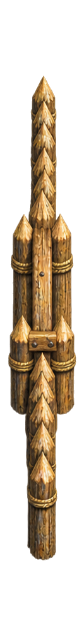
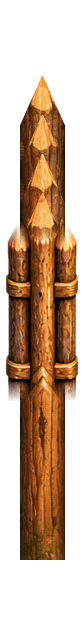
fix(art): activate original-palisade-based AI gate artwork v4

diff --git a/index.html b/index.html
@@ -408,11 +408,11 @@ Ihre Form wird ausschließlich im Bergwerkzeug eingestellt. Ihre Deckkraft folgt
 window.VedrasCloudsDisabled=new URLSearchParams(location.search).get('clouds')!=='1';</script>
 <script src="asset-image-pool.js?v=0.3.1&amp;step11=20261028"></script><script src="render-quality-policy.js?v=0.1.0&amp;terrain=quality-source-20261117"></script><script src="gpu-terrain.js?v=0.2.0&amp;uvHighp=20261122"></script><script src="strategic-view.js?v=0.1.0"></script><script src="static-terrain-cache.js?v=0.1.0"></script><script src="render-benchmark-profiler.js?v=0.1.0"></script>
 <script src="render-step15-trace.js?v=0.1.0"></script>
-<script src="sprite-atlas-runtime.js?v=0.3.0"></script><script src="worldgen-geography.js?v=2.1.2"></script><script src="geography-io.js?v=20261120-io-v1"></script><script src="catalog.js?v=0.18.0"></script><script src="terrain-source-rules.js?v=0.18.0"></script><script src="water-texture.js?v=20261119-forest-seamless-v2"></script><script src="autotile.js?v=20261119-ground-wrap-v1"></script><script src="chunks.js?v=0.37.1&amp;step16b=20261101-offscreen1"></script><script src="terrain-worker-client.js?v=20261119-ground-wrap-v1"></script><script src="nature_catalog.js?v=20261121-desert-trees-v1"></script><script src="flora-plan.js?v=0.17.0"></script><script src="terrain-plan.js?v=0.18.0"></script><script src="sprite-planner.js?v=0.16.0"></script><script src="existing-asset-rules.js?v=20261121-desert-trees-v1"></script><script src="forest.js?v=20261122-canopy-variation-v1"></script><script src="forest-ground.js?v=20261120-organic-v1&amp;softSnow=20261122"></script><script src="nature-balance.js?v=0.36.1"></script><script src="polish.js?v=0.21.0"></script><script src="relief.js?v=0.35.0"></script><script src="shoreline.js?v=0.30.1&amp;artfix=20261027"></script><script src="river.js?v=0.30.0"></script><script src="river-banks.js?v=0.2.0"></script><script src="mountain.js?v=0.11.0"></script><script src="roads.js?v=0.31.0"></script><script src="walls.js?v=20261124-palisade-gates-ai-v3"></script><script src="bridges.js?v=0.28.0"></script><script src="shadow-tone.js?v=20261122-shadow-union-v1"></script><script src="shadow-system.js?v=20261122-gray-all-v1"></script><script src="shadow-shapes.js?v=20261122-gray-all-v1"></script><script src="sprite-shadow-editor.js?v=20261122-shadow-union-v1"></script><script src="shadow-painter-ui.js?v=0.1.0"></script><script src="object-layout-cache.js?v=0.2.0"></script><script src="static-object-layer.js?v=0.2.0"></script><script src="gpu-sprite-layer.js?v=0.1.0"></script><script src="frame-preparation-cache.js?v=0.1.0"></script><script src="adaptive-lod.js?v=0.1.1&amp;step10=20261027"></script><script src="realtime-map-renderer.js?v=0.1.1"></script><script src="cloud-artwork.js?v=0.22.4&amp;step12=20261028"></script><script src="fog-atmosphere.js?v=0.22.4"></script><script src="quick-terrain-preview.js?v=20261101-1"></script>
+<script src="sprite-atlas-runtime.js?v=0.3.0"></script><script src="worldgen-geography.js?v=2.1.2"></script><script src="geography-io.js?v=20261120-io-v1"></script><script src="catalog.js?v=0.18.0"></script><script src="terrain-source-rules.js?v=0.18.0"></script><script src="water-texture.js?v=20261119-forest-seamless-v2"></script><script src="autotile.js?v=20261119-ground-wrap-v1"></script><script src="chunks.js?v=0.37.1&amp;step16b=20261101-offscreen1"></script><script src="terrain-worker-client.js?v=20261119-ground-wrap-v1"></script><script src="nature_catalog.js?v=20261121-desert-trees-v1"></script><script src="flora-plan.js?v=0.17.0"></script><script src="terrain-plan.js?v=0.18.0"></script><script src="sprite-planner.js?v=0.16.0"></script><script src="existing-asset-rules.js?v=20261121-desert-trees-v1"></script><script src="forest.js?v=20261122-canopy-variation-v1"></script><script src="forest-ground.js?v=20261120-organic-v1&amp;softSnow=20261122"></script><script src="nature-balance.js?v=0.36.1"></script><script src="polish.js?v=0.21.0"></script><script src="relief.js?v=0.35.0"></script><script src="shoreline.js?v=0.30.1&amp;artfix=20261027"></script><script src="river.js?v=0.30.0"></script><script src="river-banks.js?v=0.2.0"></script><script src="mountain.js?v=0.11.0"></script><script src="roads.js?v=0.31.0"></script><script src="walls.js?v=20261124-palisade-gates-ai-v4"></script><script src="bridges.js?v=0.28.0"></script><script src="shadow-tone.js?v=20261122-shadow-union-v1"></script><script src="shadow-system.js?v=20261122-gray-all-v1"></script><script src="shadow-shapes.js?v=20261122-gray-all-v1"></script><script src="sprite-shadow-editor.js?v=20261122-shadow-union-v1"></script><script src="shadow-painter-ui.js?v=0.1.0"></script><script src="object-layout-cache.js?v=0.2.0"></script><script src="static-object-layer.js?v=0.2.0"></script><script src="gpu-sprite-layer.js?v=0.1.0"></script><script src="frame-preparation-cache.js?v=0.1.0"></script><script src="adaptive-lod.js?v=0.1.1&amp;step10=20261027"></script><script src="realtime-map-renderer.js?v=0.1.1"></script><script src="cloud-artwork.js?v=0.22.4&amp;step12=20261028"></script><script src="fog-atmosphere.js?v=0.22.4"></script><script src="quick-terrain-preview.js?v=20261101-1"></script>
 <script src="frozen-map-package.js?v=20261101-2"></script>
 <script src="authored-world-contract.js?v=20261118-semantic-world-v1"></script>
 <script src="frozen-map-runtime.js?v=20261118-near-archive-audit-v4&amp;edgePolicy=20261119&amp;linkedAudit=20261122&amp;coreScene=20261122"></script>
 <script src="frozen-ground-core-seams.js?v=20261120-owned-core-gate-v1&amp;hexTip=20261122"></script>
 <script src="world-tile-streamer.js?v=0.22.6&amp;fix=exact-lod-20261117&amp;clouds=off-20261120&amp;coreFilter=20261122"></script>
-<script src="world-tile-ground-reuse.js?v=0.1.0"></script><script src="app.js?v=20261120-organic-v1&amp;diagnostics=20261121&amp;shadows=partial-20261121&amp;edgeCore=20261122&amp;localPreview=20261122&amp;softSnow=20261122&amp;grayAll=20261122&amp;shadowUnion=20261122&amp;footGate=20261122&amp;walls=20261124-palisade-gates-ai-v3&amp;coreScene=20261122&amp;geography=2.1.2&amp;geographyIO=20261120&amp;clouds=off-20261120"></script><script src="nature-ui.js?v=20261122-open-trees-v1&amp;alpineShrubs=20261122&amp;wallClear=20261124"></script><script src="road-ui.js?v=0.28.0"></script><script src="wall-ui.js?v=20261124-palisade-gates-ai-v3"></script><script src="ui-organizer.js?v=20261122-shadow-gray-shortcut-v1"></script><script src="forest-ui.js?v=20261122-canopy-variation-v1"></script><script src="river-ui.js?v=0.15.0"></script><script src="flora-workspace.js?v=0.13.0"></script>
+<script src="world-tile-ground-reuse.js?v=0.1.0"></script><script src="app.js?v=20261120-organic-v1&amp;diagnostics=20261121&amp;shadows=partial-20261121&amp;edgeCore=20261122&amp;localPreview=20261122&amp;softSnow=20261122&amp;grayAll=20261122&amp;shadowUnion=20261122&amp;footGate=20261122&amp;walls=20261124-palisade-gates-ai-v4&amp;coreScene=20261122&amp;geography=2.1.2&amp;geographyIO=20261120&amp;clouds=off-20261120"></script><script src="nature-ui.js?v=20261122-open-trees-v1&amp;alpineShrubs=20261122&amp;wallClear=20261124"></script><script src="road-ui.js?v=0.28.0"></script><script src="wall-ui.js?v=20261124-palisade-gates-ai-v4"></script><script src="ui-organizer.js?v=20261122-shadow-gray-shortcut-v1"></script><script src="forest-ui.js?v=20261122-canopy-variation-v1"></script><script src="river-ui.js?v=0.15.0"></script><script src="flora-workspace.js?v=0.13.0"></script>
 </body></html>

diff --git a/walls.js b/walls.js
@@ -331,7 +331,7 @@ window.VedrasWalls=(()=>{
    const image=new Image();palisadeGateArt.set(side,image);
    pending.push(new Promise(resolve=>{
     image.onload=()=>resolve(true);image.onerror=()=>resolve(false);
-    image.src='assets/walls/palisade/gates/v1/gate_dir'+side+'.png?v=20261124-timber-gates-ai-v3';
+    image.src='assets/walls/palisade/gates/v1/gate_dir'+side+'.png?v=20261124-timber-gates-ai-v4';
    }));
   }
   for(const name of ['corner_post','end_post']){

diff --git a/app.js b/app.js
@@ -4421,7 +4421,7 @@ function frozenSceneKey({force4x=false}={}){
   'wall-nature-persistent-clearance-v1',
   'palisade-closed-gates-v1',
   'palisade-native-rgba-gates-v2',
-  'palisade-ai-painted-gates-v3',
+  'palisade-ai-painted-gates-v4',
   'forest-floor-wrap-v1',
   'organic-forest-fringes-and-soft-snow-v4',
   // Strict source-core alpha stabilization and read-only seam publication

diff --git a/assets/walls/palisade/gates/v1/README.md b/assets/walls/palisade/gates/v1/README.md
@@ -1,3 +1,3 @@
-# Closed palisade gates — AI-painted v3
+# Closed palisade gates — AI-painted v4
 
-Five newly generated raster paintings, inspired by medieval RTS timber gates and matched to the accepted palisade v5 style. SO (2) and SW (3) are separate generated images. NO (0), O (1) and W (4) were extracted from a generated three-sprite sheet. NW (5) points to byte-identical SO artwork (same Git blob), using the original NW placement metadata. Only alpha cleanup, cropping, and affine calibration to existing palisade dimensions and foot lines were applied. No SVG or programmatically drawn gate components. Diagonal PNGs retain 420/423 × 444 canvases and edge-on PNGs 84 × 630. Existing palisades, piers, stone gates, geometry, and vegetation clearance are unchanged. The earlier procedural generator and its build workflow are retired. Visual approval in the actual editor remains separate from technical checks.
+Original v5 palisade raster sprites are the base. Only the gate centers use AI-painted image parts, calibrated to the original timber palette and projected slope. The original outer stakes, image dimensions and anchors remain unchanged. The diagonal alpha silhouette is identical to its original source (NW is the requested SO reuse). East/west have a widened central assembly with unchanged ends. All six active assets are transparent PNGs; no SVG or drawn vector door elements. NW (5) reuses SO (2) byte-for-byte. The reproducible compositing script is scripts/compose_palisade_ai_v4.py, with source_atlas_v4.png. The corrected affine composition keeps the timber braces straight. Existing walls, posts, stone gates and vegetation logic remain unchanged. Visual approval in the actual editor is pending.
